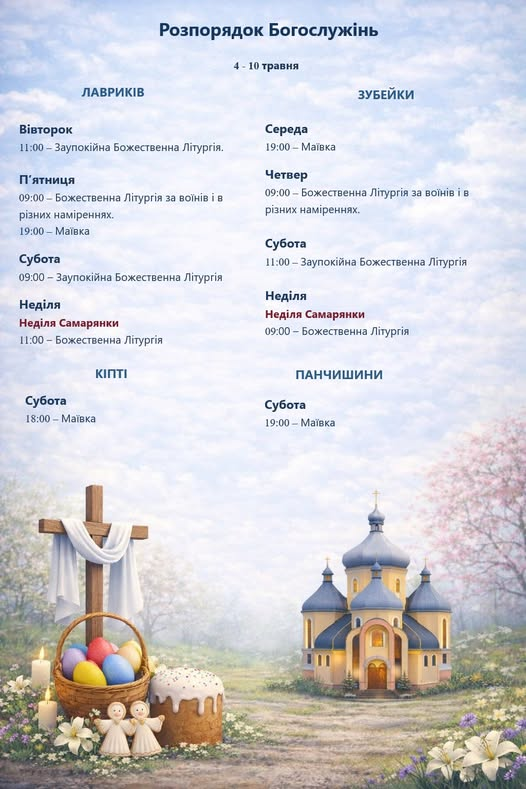
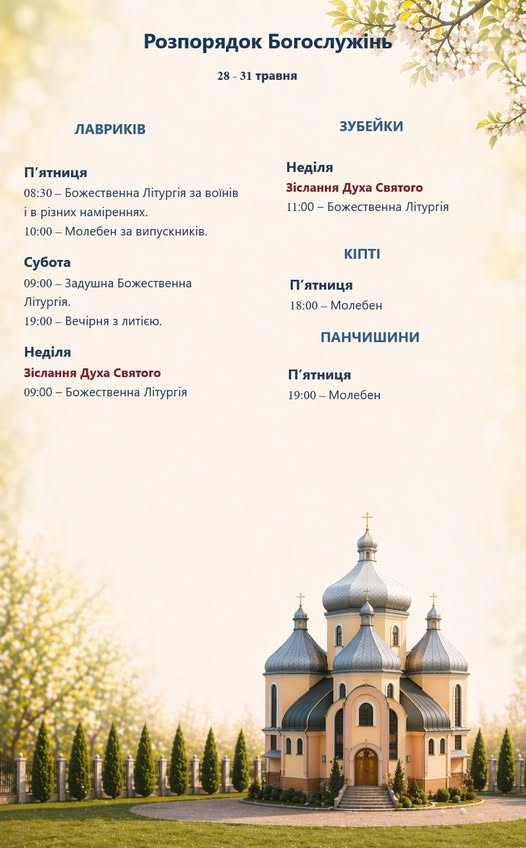
new posts (greens days)

diff --git a/Js/index.js b/Js/index.js
@@ -135,6 +135,53 @@ const HOME_PAGE_EVENTS = [
   {
     type: 'photo',
     photos: [
+      'img/good_work_on_greens-days/711680073_122229961982286276_3512761058918760758_n.jpg',
+      'img/good_work_on_greens-days/711474757_122229962012286276_3796281727463304596_n.jpg',
+      'img/good_work_on_greens-days/710481833_122229961976286276_2563409828568875831_n.jpg',
+      'img/good_work_on_greens-days/710351334_122229962042286276_4923231630227113905_n.jpg',
+      'img/good_work_on_greens-days/708654197_122229961856286276_895076434255131478_n.jpg',
+      'img/good_work_on_greens-days/708209982_122229961808286276_2137266809240963966_n.jpg',
+      'img/good_work_on_greens-days/707749904_122229961892286276_5805244889802990143_n.jpg'
+    ],
+    videoUrl: '',
+    title: 'Напередодні великого свята Зіслання Святого Духа в нашій парафії було проведено багато корисної праці',
+    text: 'Напередодні великого свята Зіслання Святого Духа в нашій парафії було проведено багато корисної праці. Ми покосили траву біля нової та старої церков на цвинтарі, впорядкували кущі, намаїли  хрест, прибрали храм, перестелили вишиті обруси. Також завантажили зрізані дерева на машину для перевезення на пилораму та розпочали роботи над волейбольним майданчиком. Щиро дякуємо всім чоловікам, жінкам та молоді, які сьогодні долучилися до праці та старанно виконували різні роботи, готуючись до цього великого свята. Нехай Господь щедро благословить кожного за жертовність, працю та любов до своєї парафії.',
+    date: '31 травня 2026',
+    places: {},
+  },
+  {
+    type: 'photo',
+    photos: [
+      'img/pani_svitlana/708773164_2038110930118248_7390537924359027834_n.jpg',
+      'img/pani_svitlana/710745607_2038110900118251_8501388239335881692_n.jpg',
+    ],
+    videoUrl: '',
+    title: 'Сьогодні в нашій каплиці Різдва Івана Хрестителя с.',
+    text: 'Сьогодні в нашій каплиці Різдва Івана Хрестителя с. Зубейки вірні молились традиційно святу літургію за мир , за захисників і за всякі прохання. Літургію служив о.Ігор Домінський. Після літургії парафіяни щиро вітали нашу Їмость п. Світлана Домінська з днем народження. Молимо Бога, щоб обдарував Вас своєю милістю. Дарував міцного здоровʼя, щастя, любові на багато літ під мирним небом України. Рясних Вам Божих благословень',
+    date: '29 травня 2026',
+    places: {},
+  },
+  {
+    type: 'photo',
+    photos: [
+      'img/molitva_ierea/707247629_122229350966286276_9140898025761272303_n.jpg',
+      'img/molitva_ierea/706758899_122229350954286276_8254759736666065981_n.jpg',
+      'img/molitva_ierea/706727005_122229350942286276_8061882752225159359_n.jpg',
+      'img/molitva_ierea/706628375_122229350798286276_7655393079150669539_n.jpg',
+      'img/molitva_ierea/706397317_122229350852286276_1901849997866147033_n.jpg',
+      'img/molitva_ierea/705185017_122229350810286276_6550512368307383913_n.jpg',
+      'img/molitva_ierea/705128306_122229350918286276_4890675944454289684_n.jpg',
+      'img/molitva_ierea/703967328_122229350846286276_2175481528490360180_n.jpg'
+    ],
+    videoUrl: '',
+    title: 'Сьогодні наша парафія у спільній молитві згадувала душу переставленого ієрея',
+    text: 'Сьогодні наша парафія у спільній молитві згадувала душу переставленого ієрея отця Миколи Осміловського добродійок, які поховані поруч із ним. Цього року минає рівно сто років від дня, коли отець Микола, будучи парафіяльним священником, упокоївся у Господі. З нагоди цієї пам’ятної дати наші сестриці відновили його могилу: пофарбували хрест, прибрали територію та посадили квіти. Після Божественної літургії священник, хористи та небайдужі парафіяни зібралися біля могили, щоб спільно помолитися Господу Богу за душу отця Миколи та всіх спочилих, які поховані поруч із ним. Нехай Господь дарує їм вічний спокій і Царство Небесне.',
+    date: '25 травня 2026',
+    places: {},
+  },
+  {
+    type: 'photo',
+    photos: [
       'img/mums_day_2026/689018236_122227770704286276_3696793181454248568_n.jpg',
       'img/mums_day_2026/694006214_122227770782286276_8708887448033157636_n.jpg',
       'img/mums_day_2026/695695221_122227770836286276_3207890948364570268_n.jpg',
